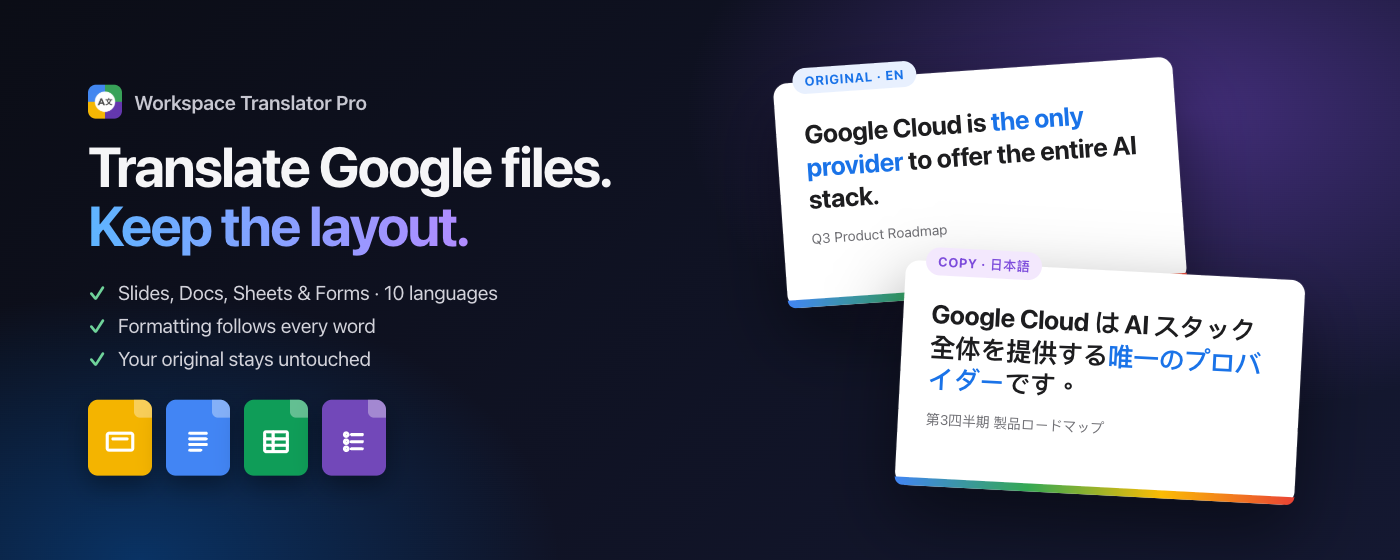
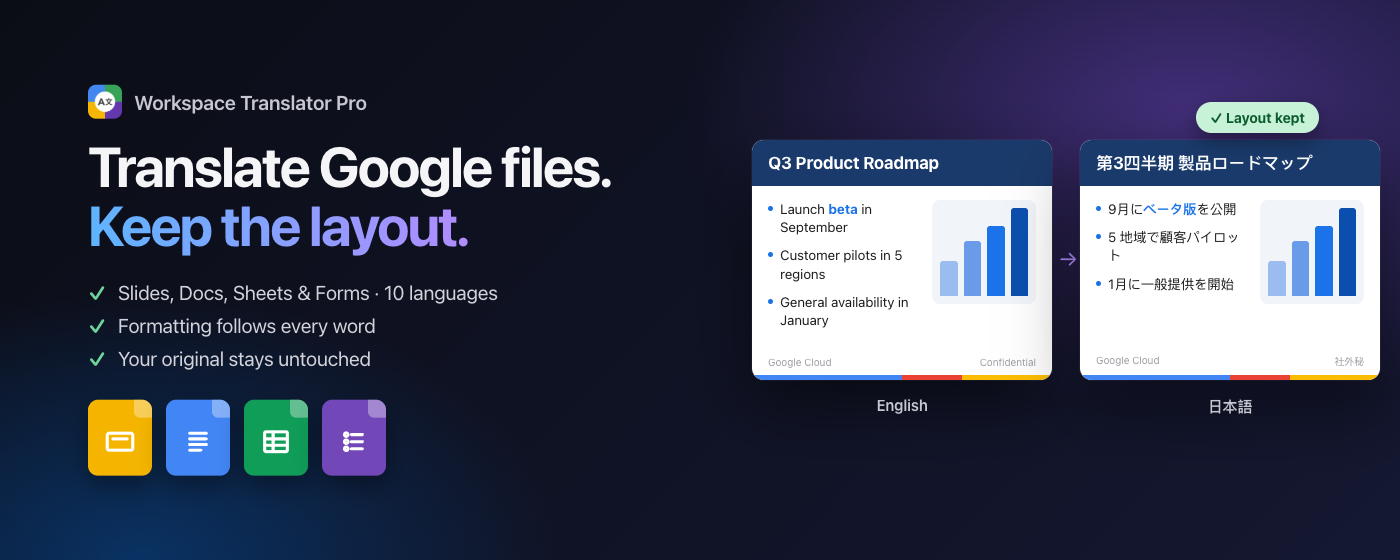
store: marquee with side-by-side slides; marquee and tile in English, 繁中, 日本語, Español

Changed region(s): [[0.5221, 0.0911, 1.0, 0.9107]]

diff --git a/store-assets/compose.html b/store-assets/compose.html
@@ -132,12 +132,53 @@
   .ftype { width: 64px; height: 76px; border-radius: 10px; position: relative; box-shadow: 0 10px 24px rgba(0,0,0,.35); }
   .ftype::after { content: ''; position: absolute; top: 0; right: 0; width: 18px; height: 18px; border-radius: 0 10px 0 6px; background: rgba(255,255,255,.35); }
   .ftype svg { position: absolute; left: 50%; top: 56%; transform: translate(-50%, -50%); width: 34px; height: 34px; fill: none; stroke: #fff; stroke-width: 2.2; stroke-linecap: round; stroke-linejoin: round; }
+  /* Marquee: two mini slides with the same layout, different language */
+  .ms { position: absolute; top: 140px; width: 300px; height: 240px; border-radius: 12px; background: #fff; color: #1d1d1f; overflow: hidden;
+        box-shadow: 0 28px 64px rgba(0,0,0,.5), 0 0 0 1px rgba(255,255,255,.06); text-align: left; }
+  .ms.a { left: 752px; } .ms.b { left: 1080px; }
+  .ms .hd { height: 46px; padding: 0 16px; display: flex; align-items: center; font-size: 17px; font-weight: 700; color: #fff; background: #1a3a6b; letter-spacing: -0.01em; }
+  .ms .bd { display: grid; grid-template-columns: 1fr 104px; gap: 12px; padding: 14px 16px; }
+  .mq .ms ul { list-style: none; margin: 0; display: flex; flex-direction: column; gap: 10px; font-size: 13.5px; line-height: 1.35; color: #1d1d1f; }
+  .ms li { padding-left: 12px; position: relative; }
+  .mq .ms li::before { content: ''; margin: 0; color: transparent; position: absolute; left: 0; top: 6px; width: 5px; height: 5px; border-radius: 50%; background: #1a73e8; }
+  .ms em { font-style: normal; color: #1a73e8; font-weight: 700; }
+  .ms .chart { display: flex; align-items: flex-end; gap: 6px; height: 104px; padding: 8px; border-radius: 8px; background: #f1f4f9; }
+  .ms .chart i { flex: 1; border-radius: 3px 3px 0 0; }
+  .ms .ft { position: absolute; left: 16px; right: 16px; bottom: 12px; display: flex; justify-content: space-between; font-size: 10px; color: #9a9aa2; }
+  .ms .strip { position: absolute; left: 0; right: 0; bottom: 0; height: 5px; background: linear-gradient(90deg, #4285f4 0 50%, #ea4335 50% 70%, #fbbc04 70%); }
+  .ms-lbl { position: absolute; top: 396px; width: 300px; text-align: center; font-size: 15px; font-weight: 600; color: #c7c7d1; }
+  .ms-arrow { position: absolute; left: 1058px; top: 246px; width: 20px; text-align: center; font-size: 22px; color: #b18cff; }
+  .kept { position: absolute; left: 1196px; top: 102px; padding: 7px 14px; border-radius: 980px; font-size: 14px; font-weight: 700; color: #0b5c2e; background: #c8f2d8; box-shadow: 0 8px 20px rgba(0,0,0,.35); }
 </style>
 </head>
 <body>
 <div id="root"></div>
 <script>
 const shot = new URLSearchParams(location.search).get('shot') || '1';
+const lang = new URLSearchParams(location.search).get('lang') || 'en';
+const mini = (cls, d) => `<div class="ms ${cls}"><div class="hd">${d.title}</div><div class="bd"><ul>${d.items.map((i) => `<li>${i}</li>`).join('')}</ul>
+  <div class="chart"><i style="height:40%;background:#9bbcf0"></i><i style="height:62%;background:#6a9be8"></i><i style="height:80%;background:#1a73e8"></i><i style="height:100%;background:#0b4fae"></i></div></div>
+  <div class="ft"><span>Google Cloud</span><span>${d.conf}</span></div><div class="strip"></div></div>`;
+const SRC = { title: 'Q3 Product Roadmap', items: ['Launch <em>beta</em> in September', 'Customer pilots in 5 regions', 'General availability in January'], conf: 'Confidential' };
+const T = {
+  en: { html: 'en', h1: 'Translate Google files.', h2: 'Keep the layout.', kept: 'Layout kept',
+        pts: ['Slides, Docs, Sheets &amp; Forms · 10 languages', 'Formatting follows every word', 'Your original stays untouched'],
+        types: ['Slides', 'Docs', 'Sheets', 'Forms'], tile: 'AI translation · 10 languages · layout kept',
+        slide: { name: '日本語', title: '第3四半期 製品ロードマップ', items: ['9月に<em>ベータ版</em>を公開', '5 地域で顧客パイロット', '1月に一般提供を開始'], conf: '社外秘' } },
+  'zh-TW': { html: 'zh-Hant', h1: '翻譯 Google 檔案，', h2: '版面完全不跑。', kept: '版面保留',
+        pts: ['簡報、文件、試算表、表單 · 10 種語言', '格式跟著每個字走', '原始檔案絕不修改'],
+        types: ['簡報', '文件', '試算表', '表單'], tile: 'AI 翻譯 · 10 種語言 · 版面不跑',
+        slide: { name: '繁體中文', title: '第三季產品路線圖', items: ['9 月推出 <em>Beta 版</em>', '在 5 個地區進行客戶試行', '1 月正式上市'], conf: '機密' } },
+  ja: { html: 'ja', h1: 'Google ファイルを翻訳。', h2: 'レイアウトはそのまま。', kept: 'レイアウト保持',
+        pts: ['スライド・ドキュメント・スプレッドシート・フォーム · 10 言語', '書式は訳文についていく', '元のファイルは変更しません'],
+        types: ['スライド', 'ドキュメント', 'シート', 'フォーム'], tile: 'AI 翻訳 · 10 言語 · レイアウト保持',
+        slide: { name: '日本語', title: '第3四半期 製品ロードマップ', items: ['9月に<em>ベータ版</em>を公開', '5 地域で顧客パイロット', '1月に一般提供を開始'], conf: '社外秘' } },
+  es: { html: 'es', h1: 'Traduce archivos de Google.', h2: 'Conserva el diseño.', kept: 'Diseño intacto',
+        pts: ['Presentaciones, Documentos, Hojas y Formularios · 10 idiomas', 'El formato sigue a cada palabra', 'Tu original queda intacto'],
+        types: ['Slides', 'Docs', 'Sheets', 'Forms'], tile: 'Traducción con IA · 10 idiomas · diseño intacto',
+        slide: { name: 'Español', title: 'Hoja de ruta del 3.er trimestre', items: ['Lanzamiento de la <em>beta</em> en septiembre', 'Pilotos con clientes en 5 regiones', 'Disponibilidad general en enero'], conf: 'Confidencial' } },
+};
+
 const device = (state, style = '', marks = '') => `
   <div class="device" style="${style}"><div class="screen"><iframe src="../popup.html?demo=${state}&ui=en${marks ? '&marks=' + marks : ''}"></iframe></div></div>`;
 const brand = `<div class="brand"><img src="../icons/icon128.png" alt="">Workspace Translator Pro</div>`;
@@ -177,23 +218,22 @@ const shots = {
         'Translate Google Slides, Docs, Sheets and Forms — and keep every layout.')}
       <div class="grid"><div class="card"><div class="ic" style="background:#0071e3"><svg viewBox="0 0 24 24"><rect x="3" y="4" width="18" height="14" rx="2"/><path d="M7 9h10M7 13h6"/></svg></div><b>Layout kept</b><span>Formatting follows the words; longer text shrinks to fit.</span></div><div class="card"><div class="ic" style="background:#34a853"><svg viewBox="0 0 24 24"><path d="M12 3v18M5 8l7-5 7 5"/><path d="M5 14h14"/></svg></div><b>Free to start</b><span>A free Gemini key in a minute — or OpenAI, Claude, custom.</span></div><div class="card"><div class="ic" style="background:#7d4cdb"><svg viewBox="0 0 24 24"><path d="M4 6h16M4 12h10M4 18h7"/><circle cx="18" cy="16" r="3"/></svg></div><b>Your rules</b><span>Names, terms, tone and length — set once, used every time.</span></div><div class="card"><div class="ic" style="background:#e37400"><svg viewBox="0 0 24 24"><rect x="3" y="3" width="7" height="7" rx="1"/><rect x="14" y="3" width="7" height="7" rx="1"/><rect x="3" y="14" width="7" height="7" rx="1"/><path d="M14 17.5h7"/></svg></div><b>Whole file or part</b><span>Every slide, or just 3-10, 12. Whole sheet or the current tab.</span></div><div class="card"><div class="ic" style="background:#d93025"><svg viewBox="0 0 24 24"><circle cx="12" cy="12" r="9"/><path d="M3 12h18M12 3a14 14 0 0 1 0 18M12 3a14 14 0 0 0 0 18"/></svg></div><b>Many languages at once</b><span>Pick several languages and get one copy for each.</span></div><div class="card"><div class="ic" style="background:#188038"><svg viewBox="0 0 24 24"><path d="M12 3l8 3v6c0 5-3.5 8-8 9-4.5-1-8-4-8-9V6z"/><path d="M9 12l2 2 4-4"/></svg></div><b>Private by design</b><span>Your original never changes. Your key stays in your browser.</span></div></div>
       <div class="langs"><span class="chip t" style="background:#f4b400">Slides</span><span class="chip t" style="background:#4285f4">Docs</span><span class="chip t" style="background:#0f9d58">Sheets</span><span class="chip t" style="background:#7248b9">Forms</span><span style="width:14px"></span><span class="chip">English</span><span class="chip">繁體中文</span><span class="chip">简体中文</span><span class="chip">日本語</span><span class="chip">한국어</span><span class="chip">Español</span><span class="chip">Français</span><span class="chip">Deutsch</span><span class="chip">Tiếng Việt</span><span class="chip">ไทย</span></div></div>`,
-  marquee: `<div class="mq dark"><div class="copy">
+  marquee: (() => { const L = T[lang] || T.en; return `<div class="mq dark" lang="${L.html}"><div class="copy">
         <div class="name"><img src="../icons/icon128.png" alt="">Workspace Translator Pro</div>
-        <h1>Translate Google files.<br><span class="grad2">Keep the layout.</span></h1>
-        <ul><li>Slides, Docs, Sheets &amp; Forms · 10 languages</li><li>Formatting follows every word</li><li>Your original stays untouched</li></ul>
+        <h1>${L.h1}<br><span class="grad2">${L.h2}</span></h1>
+        <ul>${L.pts.map((p) => `<li>${p}</li>`).join('')}</ul>
         <div class="ftypes">
           <div class="ftype" style="background:#f4b400"><svg viewBox="0 0 24 24"><rect x="3" y="6" width="18" height="12" rx="1.5"/><path d="M7 10h10"/></svg></div>
           <div class="ftype" style="background:#4285f4"><svg viewBox="0 0 24 24"><path d="M6 6h12M6 10h12M6 14h12M6 18h8"/></svg></div>
           <div class="ftype" style="background:#0f9d58"><svg viewBox="0 0 24 24"><rect x="4" y="5" width="16" height="14" rx="1"/><path d="M4 10h16M4 14.5h16M10 5v14"/></svg></div>
           <div class="ftype" style="background:#7248b9"><svg viewBox="0 0 24 24"><circle cx="6.5" cy="7" r="1.2"/><circle cx="6.5" cy="12" r="1.2"/><circle cx="6.5" cy="17" r="1.2"/><path d="M10 7h8M10 12h8M10 17h8"/></svg></div>
         </div></div>
-      <div class="slide s1"><span class="tag" style="background:#e8f0fe;color:#1a73e8">ORIGINAL · EN</span>
-        <h3>Google Cloud is <em>the only provider</em> to offer the entire AI stack.</h3><p>Q3 Product Roadmap</p><div class="bar"></div></div>
-      <div class="slide s2"><span class="tag" style="background:#f3e8fd;color:#7d4cdb">COPY · 日本語</span>
-        <h3>Google Cloud は AI スタック全体を提供する<em>唯一のプロバイダー</em>です。</h3><p>第3四半期 製品ロードマップ</p><div class="bar"></div></div></div>`,
-  tile: `<div class="tl dark"><img src="../icons/icon128.png" alt=""><h1>Workspace Translator Pro</h1>
-        <div class="types"><span style="background:#f4b400">Slides</span><span style="background:#4285f4">Docs</span><span style="background:#0f9d58">Sheets</span><span style="background:#7248b9">Forms</span></div>
-        <p>AI translation · 10 languages · layout kept</p></div>`,
+      ${mini('a', SRC)}<div class="ms-arrow">→</div>${mini('b', L.slide)}
+      <div class="ms-lbl" style="left:752px">English</div><div class="ms-lbl" style="left:1080px">${L.slide.name}</div>
+      <div class="kept">✓ ${L.kept}</div></div>`; })(),
+  tile: (() => { const L = T[lang] || T.en; return `<div class="tl dark" lang="${L.html}"><img src="../icons/icon128.png" alt=""><h1>Workspace Translator Pro</h1>
+        <div class="types">${L.types.map((t, i) => `<span style="background:${['#f4b400', '#4285f4', '#0f9d58', '#7248b9'][i]}">${t}</span>`).join('')}</div>
+        <p>${L.tile}</p></div>`; })(),
 };
 document.getElementById('root').outerHTML = shots[shot];
 </script>

diff --git a/store-assets/build.py b/store-assets/build.py
@@ -35,9 +35,9 @@ def serve():
     return httpd
 
 
-def render(shot, w, h, name):
+def render(shot, w, h, name, lang='en'):
     path = os.path.join(OUT, name)
-    url = f'http://127.0.0.1:{PORT}/store-assets/compose.html?shot={shot}'
+    url = f'http://127.0.0.1:{PORT}/store-assets/compose.html?shot={shot}&lang={lang}'
     subprocess.run([
         CHROME, '--headless=new', '--hide-scrollbars', '--force-device-scale-factor=1',
         f'--window-size={w},{h}', '--virtual-time-budget=6000', '--default-background-color=0b0c12ff',
@@ -61,6 +61,10 @@ def main():
         for shot, w, h, name in SHOTS:
             if not only or shot in only:
                 render(shot, w, h, name)
+                # Localized store listings: marquee and tile also in 繁中, 日本語 and Español.
+                if shot in ('marquee', 'tile'):
+                    for lang in ('zh-TW', 'ja', 'es'):
+                        render(shot, w, h, name.replace('.png', f'-{lang}.png'), lang)
     finally:
         httpd.shutdown()
 

diff --git a/store-assets/listing.md b/store-assets/listing.md
@@ -47,6 +47,7 @@ No servers, no tracking. Your API key and settings stay in your browser; the tex
 
 **Screenshots** (max 5, upload in this order): `screenshot-overview.png` (all features at a glance), `photo-slide.png`, `photo-doc.png`, `photo-sheets.png`, `photo-form.png` — the photos are real Google Slides/Docs/Sheets/Forms with the current side panel (rebuild with `python3 store-assets/retouch.py`; the rest with `python3 store-assets/build.py`).
 **Small promo tile**: `small-tile-440x280.png` · **Marquee**: `marquee-1400x560.png`
+**Localized promo images** (Store listing → choose the language at the top): 繁體中文 `-zh-TW`, 日本語 `-ja`, Español `-es` versions of the marquee and small tile. Every other language shows the English ones.
 
 ## Privacy practices tab
 
